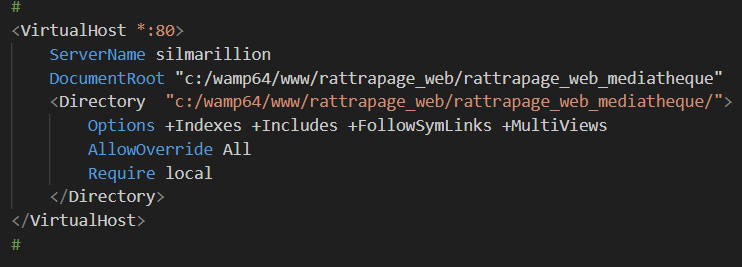
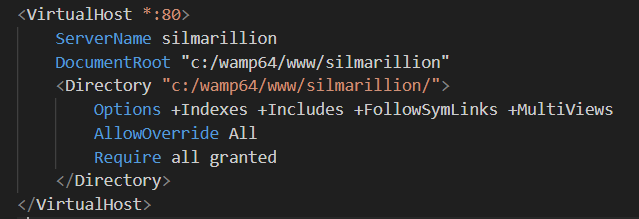
amélioration readme

diff --git a/README.md b/README.md
@@ -21,12 +21,18 @@ Le projet vise la réalisation d'une application web permettant la gestion compl
 
 **Wamp Server**
 - Configuration de server :
+
     - les virtual hosts ![alt text](imgREADME/image.png)
     - le httpd.conf pour définir le port sur lequel le server sera host, document root, la redirection par défaut ou encore les modules
     ![alt text](imgREADME/image-3.png)
     ![alt text](imgREADME/image-4.png)
     ![alt text](imgREADME/image-5.png)
     ![alt text](imgREADME/image-6.png)
+    - Pour accéder au site en localhost (ou via un un appareil connecté au même réseau et connaissant l'adresse ip) le root Directory est Silmarillion. ![alt text](imgREADME/image-8.png) 
+    - Lorsque que l'écrit http://localhos/silmarillion ou <adresse_ip>/silmarillion, on tombe sur le globalIndex.html. Un fichier .htaccess permet une redirection permanante vers l'index.php contenu dans /public :
+    ```
+    RewriteEngine On
+    RewriteRule ^$ /silmarillion/Rattrapage_web_mediatheque/public/ [R=301,L]```
 
 **PHPmyadmin**
 - Creation des utilisateurs avec des privilèges differents pour plus de sécurité : 
@@ -79,7 +85,7 @@ En partant du principe qu'un administrateur est un utilisateur avec des privilè
 **La base de donées mySQL à été vidée**. Il faut être log pour voir son profil, voir ses emprunts ou encore réaliser un emprunt. L'ajout la modification et la suppression des médias se fait avec un compte administrateur. Il n'existe qu'un compte par défaut et c'est un admin avec les logs suivants:
 
 - Email : ``` admin@cesi.fr ```
-- Mot de Passe : ``` 4dm1n_p422word ```
+- Mot de Passe : ``` 4dm1n_p422w0rd ```
 
 Les médias déjà empruntés ne sont pas visibles depuis la page d'acceuil mais seront affichés dans la page de recherche ou si on connais l'identifiant du médias, depuis l'url ```Silmarillion/medias/id```.
 
@@ -87,3 +93,11 @@ La recherche se fait avec la navbar :
 - on peut chercher un champ vide pour voir tous les médias
 - on peut entrer un champ pour faire une recherhe avancée
 - on peut choisir le format de pagination grâce à la selection sur la page de recherche
+
+
+Utilisation d'une machine virtuelle pour heberger l'api. Avec API pltaform en cli depuis symfony, on se connecte à la database avec les logs. On donne accès à toute les ip avec un ``` symfony server:start --allow-all-ip ``` Un accès à la documentation est disponible à /api/
+![alt text](imgREADME/image-9.png)
+
+Grâce aux logs sécurisés de API Platform, la methode d'authentification permet de générer un token JWT. 
+(logs test => email:```test@test.fr``` mot de passe ```password```)
+Si pas de JWT donné dans les requêtes, les elle renvoie un message d'erreur.
